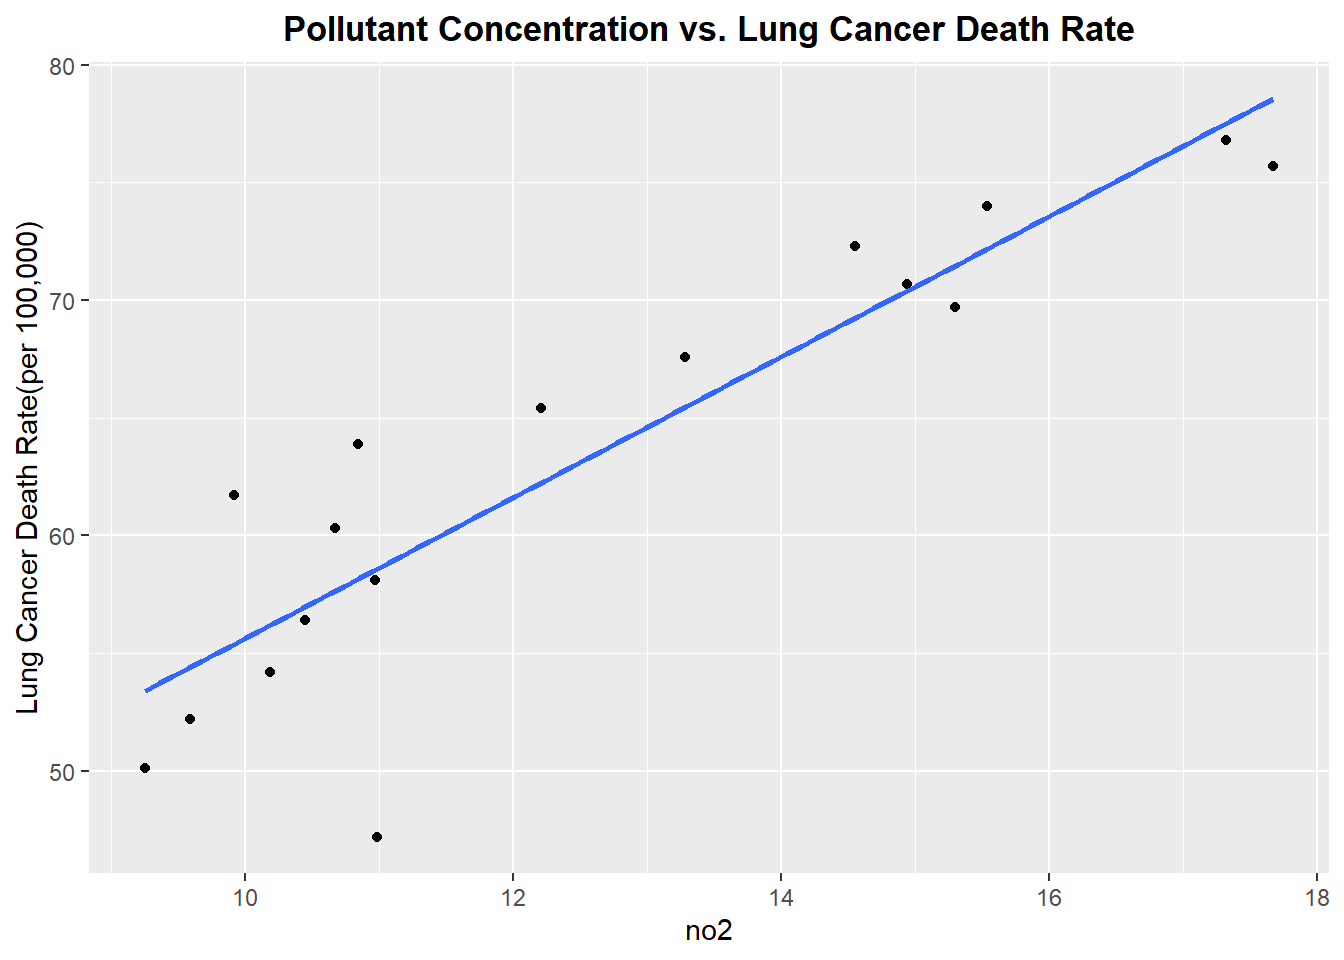
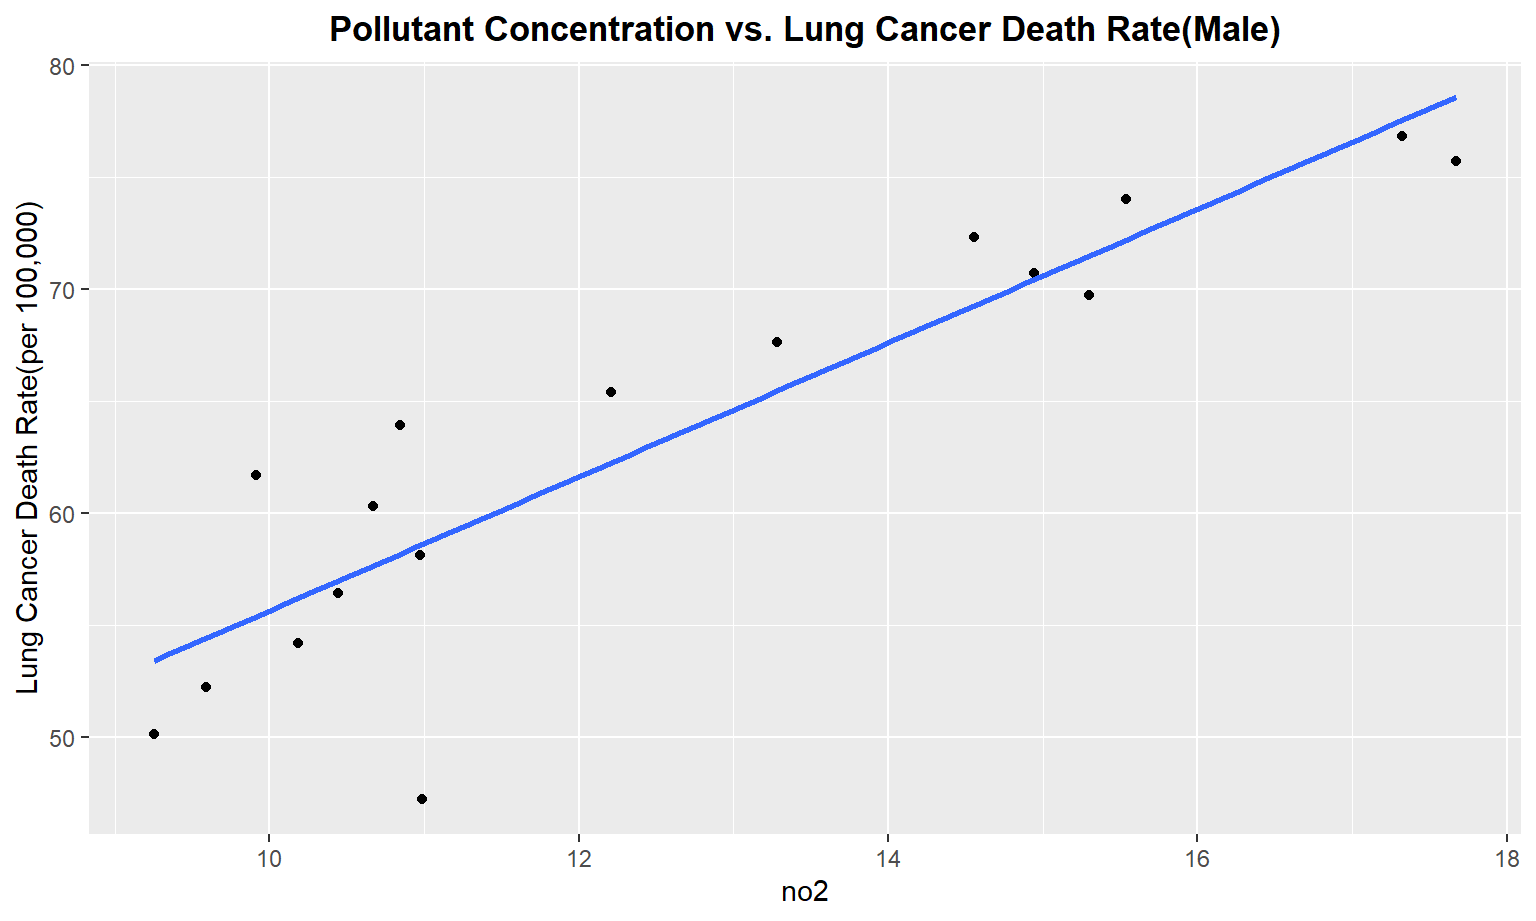
Divided Matt's summary so they are easier to track

diff --git a/exploratory-analysis.html b/exploratory-analysis.html
@@ -375,10 +375,12 @@ div.tocify {
 
 
 <p> </p>
-<p>To understand the pulltion-related factors that act upon cancer incidence and death, we obtained, cleaned, and analyzed pollution data that spanned from 2000-2016. This data contained concentrations from the known pollutants NO2, O3, SO2, and CO. In the first table under the “Exploring Pollution Data Set” section, you can see the average concentrations of each pollutant in question in the United States for each year over the 17-year span. Below that, we have included another data frame with the means across the entire 17-year span. To compare the distributions of the pollutants to each other, we created a series of boxplots. As you can see, NO2 has the highest average concentration of any of the pollutants in ppm, and also has a skewed-right shape. CO and O3 have much narrowers distributions (in addition to much lower mean concentrations), making their shape harder to discern. SO2, however, appears to be approximately normally distributed. The next plot we created shows the pollution concentration with respect to time. This plot reveals that while NO2 and SO2 have been decreasing in concentration in recent years, that CO and O3 have remained relatively stable. After analyzing pollutants on their own, we combined the pollution data with our data on cancer death and incidence in order to draw conclusions on the correlative effects pollutants have on cancer. The first plot doing this shows the death trend in lung cancer over the same period of time as the previous plot of pollutants. As can be seen, lung cancer has sharply decreased from 2000-2016, which is similar to the trend we see in NO2 and SO2. The next series of plots compares the pollutant concentration to the lung cancer death rate, statifying by gender. 6 of the 8 plots show a positive, linear relationship between the pollutant concentration and death rate. The 2 plots are the exception are both for O3, which shows a negative, linear relationship with death rate. And finally, an interactive map of the US that shows incidence rate of lung/bronchus cancer by state is at the bottom of this page, and gives a visualization of regional incidence trends. From this, it can be seen that southern states and northern midwest states have the highest incidence rates of lung and bronchus cancers.</p>
+<p>To understand the pulltion-related factors that act upon cancer incidence and death, we obtained, cleaned, and analyzed pollution data that spanned from 2000-2016. This data contained concentrations from the known pollutants NO2, O3, SO2, and CO.</p>
 <hr />
 <div id="exploring-pollution-data-set" class="section level1">
 <h1>Exploring Pollution Data Set</h1>
+<p> </p>
+<p>In the first table below, you can see the average concentrations of each pollutant in question in the United States for each year over the 17-year span.</p>
 <pre class="r"><code>modified_pollution =
   read_csv(&quot;data/uspollution_us_2000_2016.csv&quot;) %&gt;% 
   janitor::clean_names() %&gt;%
@@ -540,6 +542,7 @@ modified_pollution %&gt;%
 </tr>
 </tbody>
 </table>
+<p>Below, we have included another data frame with the means across the entire 17-year span.</p>
 <pre class="r"><code>modified_pollution %&gt;% 
    pivot_longer(
     no2:co,
@@ -609,6 +612,8 @@ modified_pollution %&gt;%
 </div>
 <div id="comparing-distributions-of-pollutant-concentrations" class="section level1">
 <h1>Comparing Distributions of Pollutant Concentrations</h1>
+<p> </p>
+<p>To compare the distributions of the pollutants to each other, we created a series of boxplots. As you can see, NO2 has the highest average concentration of any of the pollutants in ppm, and also has a skewed-right shape. CO and O3 have much narrowers distributions (in addition to much lower mean concentrations), making their shape harder to discern. SO2, however, appears to be approximately normally distributed.</p>
 <pre class="r"><code>ppb_plot =
   modified_pollution %&gt;% 
   pivot_longer(
@@ -642,6 +647,7 @@ ppm_plot =
 ppb_plot + ppm_plot + plot_annotation(title = 
                                         &quot;Distribution of Concentration Values for each Pollutant Type&quot;)</code></pre>
 <p><img src="exploratory-analysis_files/figure-html/unnamed-chunk-3-1.png" width="90%" /></p>
+<p>The next plot we created shows the pollution concentration with respect to time. This plot reveals that while NO2 and SO2 have been decreasing in concentration in recent years, that CO and O3 have remained relatively stable.</p>
 <pre class="r"><code>ppm_point =
   modified_pollution %&gt;% 
   pivot_longer(
@@ -688,6 +694,8 @@ ppb_point / ppm_point + plot_annotation(title =
 </div>
 <div id="exploring-trends-in-death-from-lung-cancer" class="section level1">
 <h1>Exploring Trends in Death From Lung Cancer</h1>
+<p> </p>
+<p>After analyzing pollutants on their own, we combined the pollution data with our data on cancer death and incidence in order to draw conclusions on the correlative effects pollutants have on cancer.</p>
 <pre class="r"><code>read_death_time =
   read_excel(&quot;data/DeathTrend.xlsx&quot;, 
              skip = 6) %&gt;%
@@ -714,6 +722,7 @@ death_time =
   mutate(
    year = as.numeric(year)
   )</code></pre>
+<p>The first plot doing this shows the death trend in lung cancer over the same period of time as the previous plot of pollutants. As can be seen, lung cancer has sharply decreased from 2000-2016, which is similar to the trend we see in NO2 and SO2.</p>
 <pre class="r"><code>death_time %&gt;% 
   rename(
     male = lung_and_bronchus_male,
@@ -738,14 +747,20 @@ death_time =
 </div>
 <div id="exploring-relationship-between-trend-in-death-rate-from-lung-cancer-to-pollution-concentration" class="section level1">
 <h1>Exploring relationship between trend in death rate from Lung Cancer to Pollution Concentration</h1>
+<p> </p>
+<p>The next series of plots compares the pollutant concentration to the lung cancer death rate, statifying by gender. 6 of the 8 plots show a positive, linear relationship between the pollutant concentration and death rate. The 2 plots are the exception are both for O3, which shows a negative, linear relationship with death rate.</p>
 <pre class="r"><code>merged_death_pollution =
-merge(death_time, modified_pollution, by = &quot;year&quot;) </code></pre>
-<pre class="r"><code>pollutant_variables =
+merge(death_time, modified_pollution, by = &quot;year&quot;) 
+
+
+pollutant_variables =
   merged_death_pollution %&gt;% 
   select(no2,o3,so2,co) %&gt;% 
   colnames() %&gt;% 
   as.vector()</code></pre>
 <p>Create a for loop to plot Pollutant concentration vs. Lung Cancer Death Rate</p>
+<div id="male" class="section level2">
+<h2>Male</h2>
 <pre class="r"><code>pollutant_variables =
   pollutant_variables %&gt;% 
   as.list()
@@ -763,7 +778,10 @@ for (i in pollutant_variables) {
   print(plot)
   
 }</code></pre>
-<p><img src="exploratory-analysis_files/figure-html/unnamed-chunk-9-1.png" width="90%" /><img src="exploratory-analysis_files/figure-html/unnamed-chunk-9-2.png" width="90%" /><img src="exploratory-analysis_files/figure-html/unnamed-chunk-9-3.png" width="90%" /><img src="exploratory-analysis_files/figure-html/unnamed-chunk-9-4.png" width="90%" /></p>
+<p><img src="exploratory-analysis_files/figure-html/unnamed-chunk-8-1.png" width="90%" /><img src="exploratory-analysis_files/figure-html/unnamed-chunk-8-2.png" width="90%" /><img src="exploratory-analysis_files/figure-html/unnamed-chunk-8-3.png" width="90%" /><img src="exploratory-analysis_files/figure-html/unnamed-chunk-8-4.png" width="90%" /></p>
+</div>
+<div id="female" class="section level2">
+<h2>Female</h2>
 <pre class="r"><code>for (i in pollutant_variables) {
   plot =
   ggplot(merged_death_pollution, aes_string(i,  &quot;lung_and_bronchus_female&quot;)) + 
@@ -776,12 +794,15 @@ for (i in pollutant_variables) {
   print(plot)
   
 }</code></pre>
-<p><img src="exploratory-analysis_files/figure-html/unnamed-chunk-10-1.png" width="90%" /><img src="exploratory-analysis_files/figure-html/unnamed-chunk-10-2.png" width="90%" /><img src="exploratory-analysis_files/figure-html/unnamed-chunk-10-3.png" width="90%" /><img src="exploratory-analysis_files/figure-html/unnamed-chunk-10-4.png" width="90%" /></p>
+<p><img src="exploratory-analysis_files/figure-html/unnamed-chunk-9-1.png" width="90%" /><img src="exploratory-analysis_files/figure-html/unnamed-chunk-9-2.png" width="90%" /><img src="exploratory-analysis_files/figure-html/unnamed-chunk-9-3.png" width="90%" /><img src="exploratory-analysis_files/figure-html/unnamed-chunk-9-4.png" width="90%" /></p>
 <hr />
 <p> </p>
 </div>
+</div>
 <div id="exploring-incidence-of-lung-cancer" class="section level1">
 <h1>Exploring Incidence of Lung Cancer</h1>
+<p> </p>
+<p>And finally, an interactive map of the US that shows incidence rate of lung/bronchus cancer by state is at the bottom of this page, and gives a visualization of regional incidence trends. From this, it can be seen that southern states and northern midwest states have the highest incidence rates of lung and bronchus cancers. Kentucky had the highest incidence of lung and bronchus cancer in 2013-2017 and Utah had the lowest incidence rate.</p>
 <pre class="r"><code>g = list(
   scope = &#39;usa&#39;,
   projection = list(type = &#39;albers usa&#39;),
@@ -826,10 +847,9 @@ inc_state %&gt;%
     title = &quot;Distribution of Lung/Bronchus Cancer Incidence Rate by State in 2013-2017&quot;,
     geo = g
   )</code></pre>
-<div id="htmlwidget-5ddce3c87b2fee90ec9c" style="width:90%;height:460.8px;" class="plotly html-widget"></div>
-<script type="application/json" data-for="htmlwidget-5ddce3c87b2fee90ec9c">{"x":{"visdat":{"2b881d3775a0":["function () ","plotlyVisDat"]},"cur_data":"2b881d3775a0","attrs":{"2b881d3775a0":{"locationmode":"USA-states","alpha_stroke":1,"sizes":[10,100],"spans":[1,20],"z":{},"text":{},"locations":{},"color":{},"colors":"viridis","inherit":true}},"layout":{"margin":{"b":40,"l":60,"t":25,"r":10},"mapType":"geo","scene":{"zaxis":{"title":"lung_and_bronchus_both_sexes_combined"}},"geo":{"domain":{"x":[0,1],"y":[0,1]},"scope":"usa","projection":{"type":"albers usa"},"showlakes":true,"lakecolor":"rgba(255,255,255,1)"},"hovermode":"closest","showlegend":false,"legend":{"yanchor":"top","y":0.5},"title":"Distribution of Lung/Bronchus Cancer Incidence Rate by State in 2013-2017"},"source":"A","config":{"modeBarButtonsToAdd":["hoverclosest","hovercompare"],"showSendToCloud":false},"data":[{"colorbar":{"title":"Incidence Rate","ticklen":2,"len":0.5,"lenmode":"fraction","y":1,"yanchor":"top"},"colorscale":[["0","rgba(68,1,84,1)"],["0.0416666666666667","rgba(71,17,100,1)"],["0.0833333333333334","rgba(72,31,112,1)"],["0.125","rgba(71,45,123,1)"],["0.166666666666667","rgba(68,58,131,1)"],["0.208333333333333","rgba(64,70,136,1)"],["0.25","rgba(59,82,139,1)"],["0.291666666666667","rgba(54,93,141,1)"],["0.333333333333333","rgba(49,104,142,1)"],["0.375","rgba(44,114,142,1)"],["0.416666666666667","rgba(40,124,142,1)"],["0.458333333333333","rgba(36,134,142,1)"],["0.5","rgba(33,144,141,1)"],["0.541666666666667","rgba(31,154,138,1)"],["0.583333333333333","rgba(32,164,134,1)"],["0.625","rgba(39,173,129,1)"],["0.666666666666667","rgba(53,183,121,1)"],["0.708333333333333","rgba(71,193,110,1)"],["0.75","rgba(93,200,99,1)"],["0.791666666666667","rgba(117,208,84,1)"],["0.833333333333333","rgba(143,214,68,1)"],["0.875","rgba(170,220,50,1)"],["0.916666666666667","rgba(199,224,32,1)"],["0.958333333333333","rgba(227,228,24,1)"],["1","rgba(253,231,37,1)"]],"showscale":true,"locationmode":"USA-states","z":[64.8,55.8,46.7,77.2,41.5,41.4,59.6,66.9,57.7,62.8,45.7,49.5,63.7,72.2,63.3,56.2,91,66.2,72.1,56.4,61.6,63.3,56.1,74.9,72,53.7,57,63.7,55.3,38.5,58.7,67.7,57.7,67.8,67.4,54.1,63.5,69.4,64.4,59,74.5,50.6,26,61.1,56.4,54,79.8,59.1,42.2],"text":["Alabama","Alaska","Arizona","Arkansas","California","Colorado","Connecticut","Delaware","Florida","Georgia","Hawaii","Idaho","Illinois","Indiana","Iowa","Kansas","Kentucky","Louisiana","Maine","Maryland","Massachusetts","Michigan","Minnesota","Mississippi","Missouri","Montana","Nebraska","New Hampshire","New Jersey","New Mexico","New York","North Carolina","North Dakota","Ohio","Oklahoma","Oregon","Pennsylvania","Rhode Island","South Carolina","South Dakota","Tennessee","Texas","Utah","Vermont","Virginia","Washington","West Virginia","Wisconsin","Wyoming"],"locations":["AL","AK","AZ","AR","CA","CO","CT","DE","FL","GA","HI","ID","IL","IN","IA","KS","KY","LA","ME","MD","MA","MI","MN","MS","MO","MT","NE","NH","NJ","NM","NY","NC","ND","OH","OK","OR","PA","RI","SC","SD","TN","TX","UT","VT","VA","WA","WV","WI","WY"],"type":"choropleth","marker":{"line":{"colorbar":{"title":"","ticklen":2},"cmin":26,"cmax":91,"colorscale":[["0","rgba(68,1,84,1)"],["0.0416666666666667","rgba(71,17,100,1)"],["0.0833333333333334","rgba(72,31,112,1)"],["0.125","rgba(71,45,123,1)"],["0.166666666666667","rgba(68,58,131,1)"],["0.208333333333333","rgba(64,70,136,1)"],["0.25","rgba(59,82,139,1)"],["0.291666666666667","rgba(54,93,141,1)"],["0.333333333333333","rgba(49,104,142,1)"],["0.375","rgba(44,114,142,1)"],["0.416666666666667","rgba(40,124,142,1)"],["0.458333333333333","rgba(36,134,142,1)"],["0.5","rgba(33,144,141,1)"],["0.541666666666667","rgba(31,154,138,1)"],["0.583333333333333","rgba(32,164,134,1)"],["0.625","rgba(39,173,129,1)"],["0.666666666666667","rgba(53,183,121,1)"],["0.708333333333333","rgba(71,193,110,1)"],["0.75","rgba(93,200,99,1)"],["0.791666666666667","rgba(117,208,84,1)"],["0.833333333333333","rgba(143,214,68,1)"],["0.875","rgba(170,220,50,1)"],["0.916666666666667","rgba(199,224,32,1)"],["0.958333333333333","rgba(227,228,24,1)"],["1","rgba(253,231,37,1)"]],"showscale":false,"color":[64.8,55.8,46.7,77.2,41.5,41.4,59.6,66.9,57.7,62.8,45.7,49.5,63.7,72.2,63.3,56.2,91,66.2,72.1,56.4,61.6,63.3,56.1,74.9,72,53.7,57,63.7,55.3,38.5,58.7,67.7,57.7,67.8,67.4,54.1,63.5,69.4,64.4,59,74.5,50.6,26,61.1,56.4,54,79.8,59.1,42.2]}},"geo":"geo","frame":null}],"highlight":{"on":"plotly_click","persistent":false,"dynamic":false,"selectize":false,"opacityDim":0.2,"selected":{"opacity":1},"debounce":0},"shinyEvents":["plotly_hover","plotly_click","plotly_selected","plotly_relayout","plotly_brushed","plotly_brushing","plotly_clickannotation","plotly_doubleclick","plotly_deselect","plotly_afterplot","plotly_sunburstclick"],"base_url":"https://plot.ly"},"evals":[],"jsHooks":[]}</script>
+<div id="htmlwidget-089e19043b274d6c4702" style="width:90%;height:460.8px;" class="plotly html-widget"></div>
+<script type="application/json" data-for="htmlwidget-089e19043b274d6c4702">{"x":{"visdat":{"d7c21c73f97":["function () ","plotlyVisDat"]},"cur_data":"d7c21c73f97","attrs":{"d7c21c73f97":{"locationmode":"USA-states","alpha_stroke":1,"sizes":[10,100],"spans":[1,20],"z":{},"text":{},"locations":{},"color":{},"colors":"viridis","inherit":true}},"layout":{"margin":{"b":40,"l":60,"t":25,"r":10},"mapType":"geo","scene":{"zaxis":{"title":"lung_and_bronchus_both_sexes_combined"}},"geo":{"domain":{"x":[0,1],"y":[0,1]},"scope":"usa","projection":{"type":"albers usa"},"showlakes":true,"lakecolor":"rgba(255,255,255,1)"},"hovermode":"closest","showlegend":false,"legend":{"yanchor":"top","y":0.5},"title":"Distribution of Lung/Bronchus Cancer Incidence Rate by State in 2013-2017"},"source":"A","config":{"modeBarButtonsToAdd":["hoverclosest","hovercompare"],"showSendToCloud":false},"data":[{"colorbar":{"title":"Incidence Rate","ticklen":2,"len":0.5,"lenmode":"fraction","y":1,"yanchor":"top"},"colorscale":[["0","rgba(68,1,84,1)"],["0.0416666666666667","rgba(71,17,100,1)"],["0.0833333333333334","rgba(72,31,112,1)"],["0.125","rgba(71,45,123,1)"],["0.166666666666667","rgba(68,58,131,1)"],["0.208333333333333","rgba(64,70,136,1)"],["0.25","rgba(59,82,139,1)"],["0.291666666666667","rgba(54,93,141,1)"],["0.333333333333333","rgba(49,104,142,1)"],["0.375","rgba(44,114,142,1)"],["0.416666666666667","rgba(40,124,142,1)"],["0.458333333333333","rgba(36,134,142,1)"],["0.5","rgba(33,144,141,1)"],["0.541666666666667","rgba(31,154,138,1)"],["0.583333333333333","rgba(32,164,134,1)"],["0.625","rgba(39,173,129,1)"],["0.666666666666667","rgba(53,183,121,1)"],["0.708333333333333","rgba(71,193,110,1)"],["0.75","rgba(93,200,99,1)"],["0.791666666666667","rgba(117,208,84,1)"],["0.833333333333333","rgba(143,214,68,1)"],["0.875","rgba(170,220,50,1)"],["0.916666666666667","rgba(199,224,32,1)"],["0.958333333333333","rgba(227,228,24,1)"],["1","rgba(253,231,37,1)"]],"showscale":true,"locationmode":"USA-states","z":[64.8,55.8,46.7,77.2,41.5,41.4,59.6,66.9,57.7,62.8,45.7,49.5,63.7,72.2,63.3,56.2,91,66.2,72.1,56.4,61.6,63.3,56.1,74.9,72,53.7,57,63.7,55.3,38.5,58.7,67.7,57.7,67.8,67.4,54.1,63.5,69.4,64.4,59,74.5,50.6,26,61.1,56.4,54,79.8,59.1,42.2],"text":["Alabama","Alaska","Arizona","Arkansas","California","Colorado","Connecticut","Delaware","Florida","Georgia","Hawaii","Idaho","Illinois","Indiana","Iowa","Kansas","Kentucky","Louisiana","Maine","Maryland","Massachusetts","Michigan","Minnesota","Mississippi","Missouri","Montana","Nebraska","New Hampshire","New Jersey","New Mexico","New York","North Carolina","North Dakota","Ohio","Oklahoma","Oregon","Pennsylvania","Rhode Island","South Carolina","South Dakota","Tennessee","Texas","Utah","Vermont","Virginia","Washington","West Virginia","Wisconsin","Wyoming"],"locations":["AL","AK","AZ","AR","CA","CO","CT","DE","FL","GA","HI","ID","IL","IN","IA","KS","KY","LA","ME","MD","MA","MI","MN","MS","MO","MT","NE","NH","NJ","NM","NY","NC","ND","OH","OK","OR","PA","RI","SC","SD","TN","TX","UT","VT","VA","WA","WV","WI","WY"],"type":"choropleth","marker":{"line":{"colorbar":{"title":"","ticklen":2},"cmin":26,"cmax":91,"colorscale":[["0","rgba(68,1,84,1)"],["0.0416666666666667","rgba(71,17,100,1)"],["0.0833333333333334","rgba(72,31,112,1)"],["0.125","rgba(71,45,123,1)"],["0.166666666666667","rgba(68,58,131,1)"],["0.208333333333333","rgba(64,70,136,1)"],["0.25","rgba(59,82,139,1)"],["0.291666666666667","rgba(54,93,141,1)"],["0.333333333333333","rgba(49,104,142,1)"],["0.375","rgba(44,114,142,1)"],["0.416666666666667","rgba(40,124,142,1)"],["0.458333333333333","rgba(36,134,142,1)"],["0.5","rgba(33,144,141,1)"],["0.541666666666667","rgba(31,154,138,1)"],["0.583333333333333","rgba(32,164,134,1)"],["0.625","rgba(39,173,129,1)"],["0.666666666666667","rgba(53,183,121,1)"],["0.708333333333333","rgba(71,193,110,1)"],["0.75","rgba(93,200,99,1)"],["0.791666666666667","rgba(117,208,84,1)"],["0.833333333333333","rgba(143,214,68,1)"],["0.875","rgba(170,220,50,1)"],["0.916666666666667","rgba(199,224,32,1)"],["0.958333333333333","rgba(227,228,24,1)"],["1","rgba(253,231,37,1)"]],"showscale":false,"color":[64.8,55.8,46.7,77.2,41.5,41.4,59.6,66.9,57.7,62.8,45.7,49.5,63.7,72.2,63.3,56.2,91,66.2,72.1,56.4,61.6,63.3,56.1,74.9,72,53.7,57,63.7,55.3,38.5,58.7,67.7,57.7,67.8,67.4,54.1,63.5,69.4,64.4,59,74.5,50.6,26,61.1,56.4,54,79.8,59.1,42.2]}},"geo":"geo","frame":null}],"highlight":{"on":"plotly_click","persistent":false,"dynamic":false,"selectize":false,"opacityDim":0.2,"selected":{"opacity":1},"debounce":0},"shinyEvents":["plotly_hover","plotly_click","plotly_selected","plotly_relayout","plotly_brushed","plotly_brushing","plotly_clickannotation","plotly_doubleclick","plotly_deselect","plotly_afterplot","plotly_sunburstclick"],"base_url":"https://plot.ly"},"evals":[],"jsHooks":[]}</script>
 <p><em>Note. The raw data for incidence rate of cancer by cancer type did not include data point for Nevada in the combined national rates. Original data recommends referring to publications and sources page on American Cancer Society website</em></p>
-<p>According to the choropleth map, Kentucky had the highest incidence of lung and bronchus cancer in 2013-2017 and similarly higher rates observed in the surrounding states. On the contrary, Utah had the lowest incidence rate.</p>
 </div>
 
 
